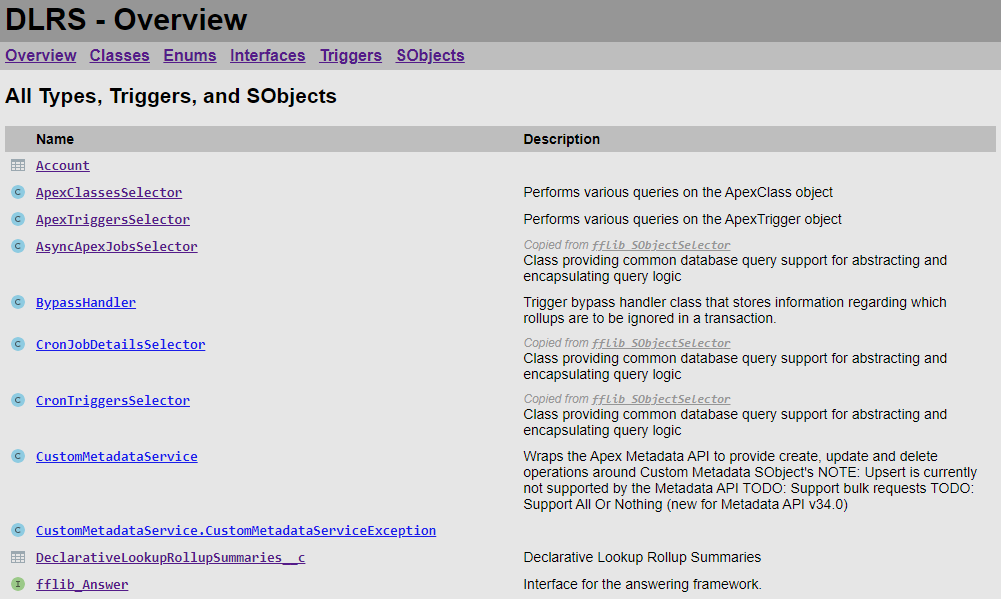
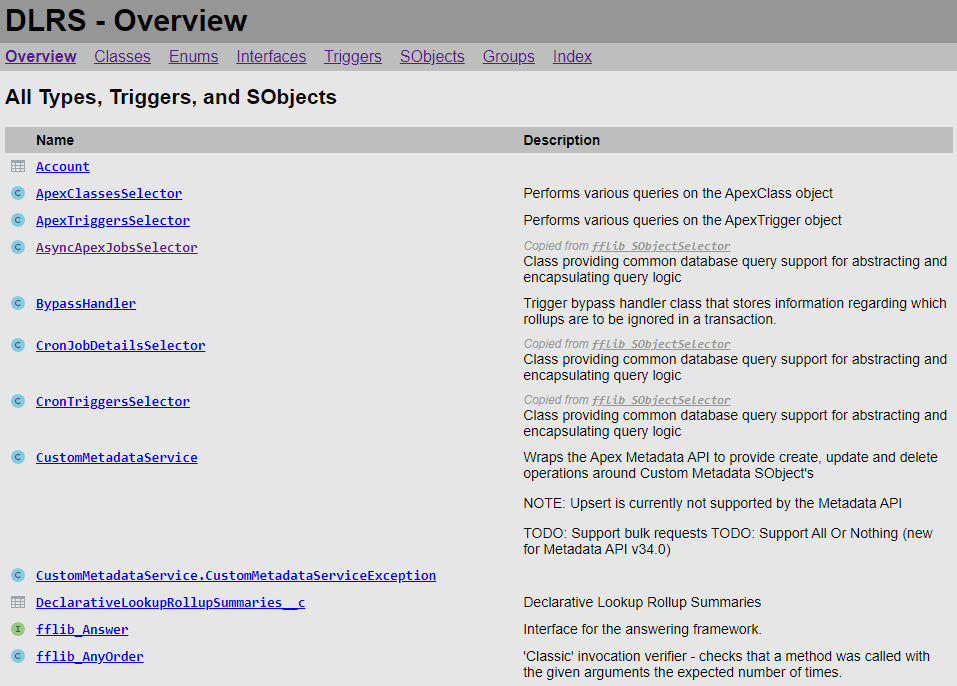
1.0.0.6 updates.

diff --git a/README.md b/README.md
@@ -36,6 +36,14 @@ The resulting documentation includes a primary landing page called **Overview** 
 Clicking on a type, trigger, or SObject link navigates to the specific page for that declaration which includes more header-level details for the top-level declaration as well as a list of all visible contained members. Members are listed together in a summary view but are also included in more detail below, broken out by declaration type, i.e., **Constructors**, **Fields**, **Properties**, and **Methods**.
 
 ![TopLevelDeclaration](images/TopLevelDeclaration.png)
+ 
+A **Groups** tab is added (corresponding to the generated file `groups.html`) for all [`@group` ApexDoc tag](#apexdoc-tags) values found in type or trigger declarations with descriptions for each group optionally derived from [group content files](#group-content-files) and links to all members of each respective group.
+
+![Groups](images/Groups.png)
+
+Finally, an **Index** tab is added (corresponding to the generated file `index-all.html`) with all declarations partitioned by the first character of the unqualified declaration name to provide efficient access to the documentation for class constants, utility methods, SObject fields, etc., by simple name.
+
+![Index](images/Index.png)
 
 Documentation for each generated declaration is based on its unique signature, i.e., annotations, modifiers, type, name, parameters, and bidirectional inheritance relationships, as well as the user-defined documentation. For Apex declarations, the user-defined documentation is based on an [ApexDoc documentation comment](#syntax) immediately preceding the declaration itself; for SObjects and their fields, the user-defined documentation is based on the `description` and `label` elements found in the corresponding metadata XML files.
 
@@ -164,8 +172,8 @@ The following ApexDoc tags are supported:
 * `@description <description>` - Specifies a description for the documented declaration. Note that this tag is **optional** (and discouraged) in IcApexDoc. If not present, all text before the first ApexDoc tag will be used as the description for the documented declaration.
 * `@example <example>` - Provides an example usage of the documented declaration. The example is automatically formatted as code.
 * `@exception`/`@throws <exceptionTypeName> [<description>]` - Documents an exception that is thrown by the method or constructor with an optional description of the conditions under which it's thrown. **NOTE:** IcApexDoc accepts both `@exception` and `@throws` for the list of thrown exceptions.
-* `@group <groupName>` - Provides a name that can be used to group common declarations together. **NOTE:** As a **future enhancement**, IcApexDoc may add a **Groups** tab to the page navigation bar where all used groups are displayed and, upon selection, all declarations for that group are listed.
-* `@group-content <filePath>` - Provides the path to a file that should be used when displaying all declarations for the `@group` value. **NOTE:** IcApexDoc currently consumes this as a valid tag but does not include it in the generated output. The same enhancement described above for `@group` would use this to create the group page content.
+* `@group <groupName>` - Provides a name that can be used to group common declarations together. See [Group Content Files](#group-content-files) for more information and the role of the `@group-content` ApexDoc tag in IcApexDoc.
+* `@group-content <filePath>` - The `@group-content` tag is recognized by IcApexDoc _but is not used_. See [Group Content Files](#group-content-files) for more information about how group content is resolved by IcApexDoc.
 * `@param <paramName> [<paramDescription>]` - Describes the respective formal parameter of the documented constructor or method. `@param` tags should be listed in the same order as the respective formal parameters.
 * `@return`/`@returns <description>` - Describes the value(s) returned by the documented method. **NOTE:** The preferred form is `@return` but both are supported by IcApexDoc.
 * `@see <typeName>[.<memberName>] [<description>]` - Adds a reference to a related type or member with an optional description of the relationship.
@@ -212,6 +220,8 @@ usage: apexdoc <options> | @<optionsFile>
                                  (default protected)
  -n,--namespace <arg>            namespace
  -nn,--no-namespace              don't use the namespace from sfdx-project.json
+ -gc,--group-content <arg>       directory containing content files for
+                                 @group/@group-content tags
  -ct,--custom-templates <arg>    custom Velocity templates directory
  -t,--title <arg>                window title
  -f,--overview <arg>             overview HTML or Markdown file
@@ -284,6 +294,24 @@ You can control whether a namespace is used for documented declarations using th
 * If neither argument is provided and an `sfdx-project.json` file containing a `namespace` property is specified, that value is used.
 * If the `sfdx-project.json` file contains a `namespace` property and the namespace should _not_ be used, the `-nn/-no-namespace` argument can be used to disable namespace processing.
 * If no `sfdx-project.json` file is specified, or if a different namespace than the one in that file should be used, the `-n/--namespace` argument can be used to specify a namespace value explicitly.
+
+### Group content files
+
+When one or more `@group` ApexDoc tags are found in Apex types or triggers, a **Groups** tab is added to the generated output for taxonomy-based organization of the project's contents. Additional content can be provided for each tagged group through the use of _group content files_. A group content file is a Markdown- or HTML-formatted file that corresponds to one specific group and describes its role in the system. Group content files are found by IcApexDoc using the `-gc/--group-content` argument, e.g.:
+
+```text
+apexdoc -p sfdx-project.json -o apexdoc -gc apexdoc-group-content
+```
+
+IcApexDoc resolves group names to group content files under the specified group content directory via a **name derivation scheme** where spaces and most other non-alphanumerics characters are replaced with underscores (`_`), and two or more consecutive underscores are reduced to a single underscore, e.g., `@group Authorization Utilities` would resolve to a file named either `Authorization_Utilities.md` or `Authorization_Utilities.html` under the designated group content directory.
+
+If **multiple** group content files are found for a given group name, a **warning** is issued and the first found group content file is used with Markdown taking priority over HTML if both are present. If **no** group content file is found for a given group name, a **warning** is also issued.
+
+A few important notes about IcApexDoc's implementation of group content:
+* First and foremost, the notion of _group content_ is implemented a bit differently in IcApexDoc. Traditionally, at least one `@group` tag would have a corresponding `@group-content` tag with the relative path of an HTML-formatted content file that describes the named group. However, this approach has multiple issues:
+  * It leads to multiple maintenance of the `@group-content` paths and/or the risk that the one-and-only `@group-content` path for a given `@group` value could be removed, thereby inadvertently breaking the association between the group and its content.
+  * The use of relative paths is inherently fragile, particularly in source format projects that allow for a much more flexible directory structure.
+* Existing `@group-content` tags are flagged by the ApexDoc validator with guidance toward the explicit group content directory-based implementation described above. This can be **disabled** if desired by setting the [validator option](#validator-options-file) `validateGroupContentTag` to `false`.
 
 ### Custom Velocity templates
 
@@ -418,6 +446,8 @@ The following properties can be configured in the validator options JSON file:
 | `validateMissingSeeTagDescription`                     | If enabled, `@see` tags which do not provide a description for the referenced target are flagged. Disabled by default.                                                                                                                          |
 | `validateAuthorTagValue`                               | If enabled, `@author` tags which do not specify a value are flagged. Enabled by default.                                                                                                                                                        |
 | `validateGroupTagValue`                                | If enabled, `@group` tags which do not specify a group name are flagged. Enabled by default.                                                                                                                                                    |
+| `validateMisattributedGroupTag`                        | If enabled, `@group` tags used in the documentation comment for non-type/trigger declarations are flagged. Enabled by default.                                                                                                                  |
+| `validateGroupContentTag`                              | If enabled, `@group-content` tags are flagged and the user is guided toward the `-gc`/`--group-content` option. Enabled by default.                                                                                                             |
 | `validateDateTagValue`                                 | If enabled, `@date` tags which do not specify a value are flagged. Enabled by default.                                                                                                                                                          |
 | `validateSinceTagValue`                                | If enabled, `@since` tags which do not specify a value are flagged. Enabled by default.                                                                                                                                                         |
 | `validateExampleTagValue`                              | If enabled, `@example` tags which do not specify a value are flagged. Enabled by default.                                                                                                                                                       |

diff --git a/RELEASE-NOTES.md b/RELEASE-NOTES.md
@@ -1,10 +1,21 @@
 # Release Notes
 
+* [1.0.0.6](#1006)
 * [1.0.0.5](#1005)
 * [1.0.0.4](#1004)
 * [1.0.0.3](#1003)
 * [1.0.0.2](#1002)
 * [1.0.0.1](#1001)
+
+## [1.0.0.6](https://github.com/SCWells72/IcApexDoc/releases/tag/1.0.0.6)
+
+* [Issue 1](https://github.com/SCWells72/IcApexDoc/issues/1) - Added an **Index** tab that includes **all** visible declarations (according to the minimum visibility) partitioned by the first character of their namespace-relative (if appropriate) names hyperlinked to their respective declaration documentation. This should hopefully provide a quick and useful way to locate documentation for class constants, utility methods, etc., by name when the exact containing type name is not known.
+* [Issue 2](https://github.com/SCWells72/IcApexDoc/issues/2) - Added a **Groups** tab that organizes top-level declarations by their `@group` tag values. If available, the corresponding group content is displayed, and each group name hyperlinks to a group-specific page where all declarations tagged for that group are listed. For more information about how to document groups, see [Group content files](README.md#group-content-files).
+* Changed the sorting of top-level and member declarations when a namespace is present to use the namespace-relative name so that names within the same namespace aren't grouped together.
+* Added two new options to the [ApexDoc validator](README.md#validator-options-file):
+  * `validateMisattributedGroupTag` - If enabled, `@group` tags used in the documentation comment for non-type/trigger declarations are flagged. Enabled by default.
+  * `validateGroupContentTag` - If enabled, `@group-content` tags are flagged and the user is guided toward the `-gc`/`--group-content` option. Enabled by default.
+* A few cosmetic improvements including selected tab emphasis in the navigation stripe, `code` display of the top-level declaration name in the respective pages, etc.
 
 ## [1.0.0.5](https://github.com/SCWells72/IcApexDoc/releases/tag/1.0.0.5)
 
